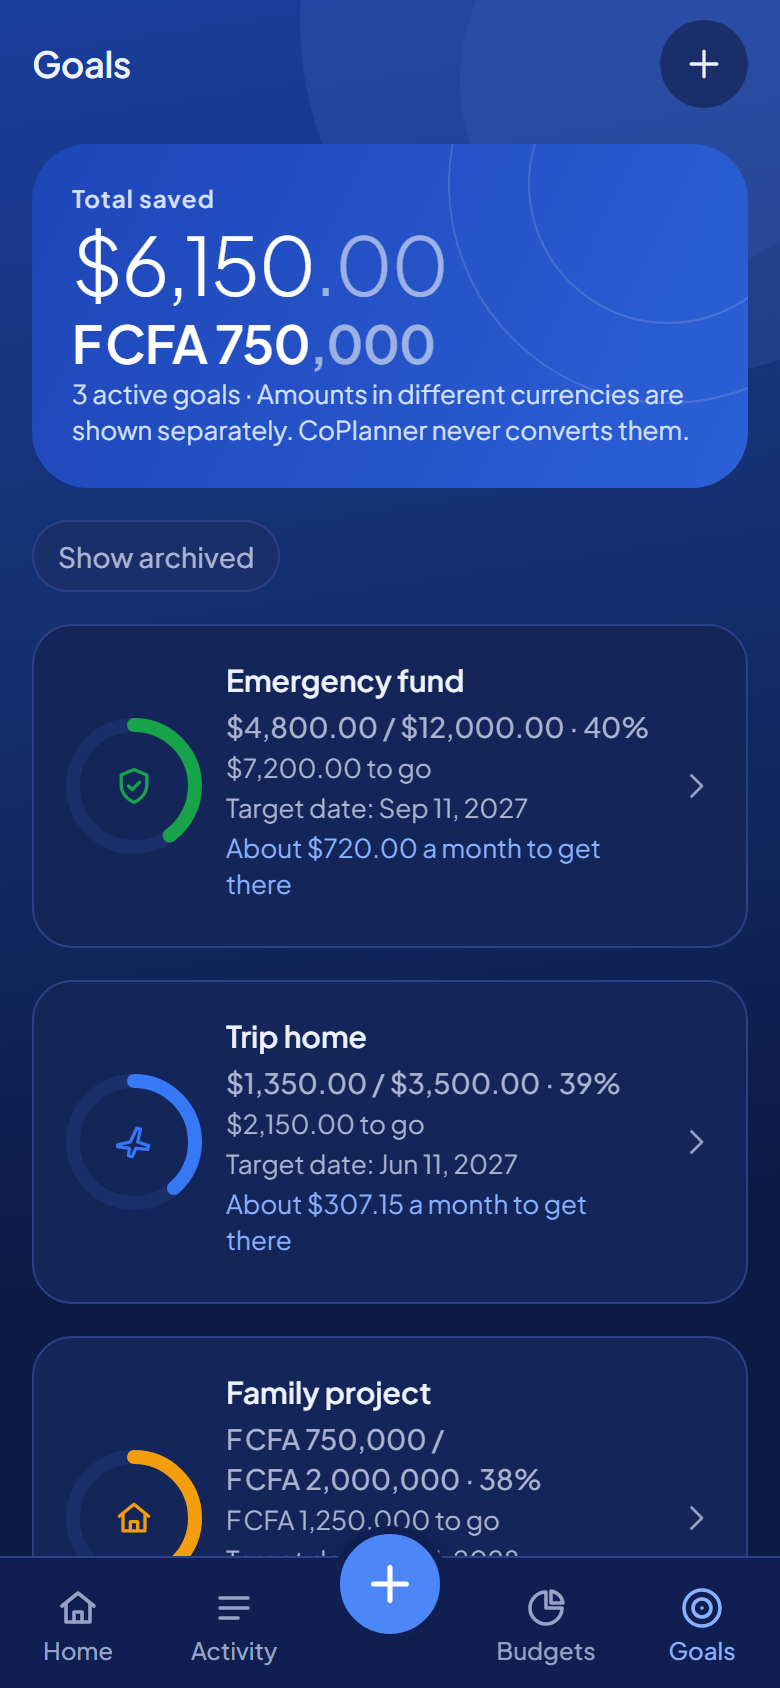
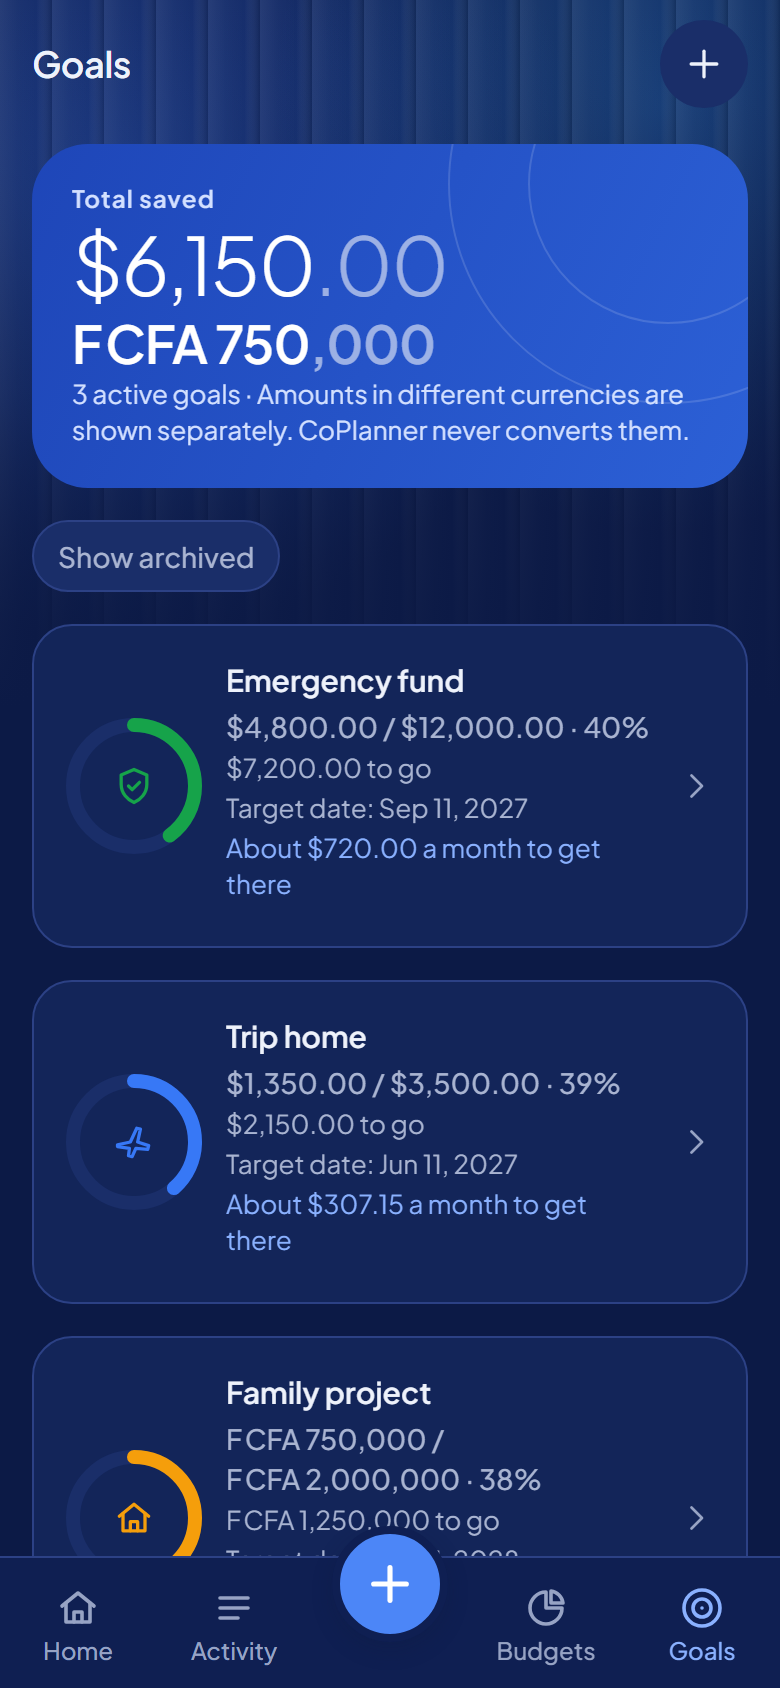
Glass header background on every screen
Calm version of the splash's fluted glass behind the header band, fading into
the plain background before content; glow strengths capped so secondary text
and links stay AA (tested); earlier sky gradient kept behind a one-line switch.

Changed region(s): [[0.0, 0.0, 1.0, 0.5545]]

diff --git a/src/ui/SkyBackground.tsx b/src/ui/SkyBackground.tsx
@@ -1,16 +1,85 @@
 import { LinearGradient } from 'expo-linear-gradient';
-import { StyleSheet, View } from 'react-native';
+import { StyleSheet, useWindowDimensions, View } from 'react-native';
+import Svg, { Defs, LinearGradient as SvgLinear, RadialGradient, Rect, Stop } from 'react-native-svg';
 
+import { decorativeProps } from './platform';
 import { useTheme } from './theme/ThemeProvider';
 
 /**
- * Blue-sky backdrop behind every screen: sky blue at the top fading into the app background (light), night blue
- * into deep navy (dark), with a soft sun-glow at the upper right. Fixed behind scrolling content.
+ * Which backdrop every screen uses. 'glass' (2026-11-11, Steeven): a calm version of the splash's fluted glass in the
+ * header band. 'sky': the earlier sky gradient, kept so switching back is one line.
  */
-export function SkyBackground() {
+const BACKDROP: 'glass' | 'sky' = 'glass';
+
+/**
+ * Glow colours and peak strength per theme. Peaks are the strongest that keep textSecondary and accentText at
+ * WCAG AA where a glow is densest (src/ui/theme/__tests__/contrast.test.ts checks these numbers).
+ */
+export const GLASS = {
+  light: { blue: '#2F6BEA', blueAlpha: 0.12, cyan: '#5CC8F0', cyanAlpha: 0.26 },
+  dark: { blue: '#3A72EC', blueAlpha: 0.42, cyan: '#2F7FD0', cyanAlpha: 0.4 },
+} as const;
+
+/** Height of the glass band behind the header and first card, as a share of the screen (capped in px). */
+const BAND_RATIO = 0.42;
+const BAND_MAX = 420;
+
+/**
+ * Glass header: blue (left) and cyan (right) glows seen through vertical glass ribs, at about a third of the splash
+ * strength so headings and secondary text stay AA, fading into the plain background before lists and charts start.
+ * Gradient ids are prefixed so they never collide with the splash's on web.
+ */
+function GlassHeader() {
+  const { colors, scheme } = useTheme();
+  const { width } = useWindowDimensions();
+  const dark = scheme === 'dark';
+  const band = Math.min(Math.round(useWindowDimensions().height * BAND_RATIO), BAND_MAX);
+  const ribWidth = 26;
+  const ribs = Math.ceil(width / ribWidth) + 1;
+  const { blue, blueAlpha, cyan, cyanAlpha } = GLASS[dark ? 'dark' : 'light'];
+
+  return (
+    <View pointerEvents="none" style={[styles.band, { height: band }]}>
+      <Svg width={width} height={band} {...decorativeProps}>
+        <Defs>
+          <RadialGradient id="appGlassBlue" cx="50%" cy="50%" r="50%">
+            <Stop offset="0" stopColor={blue} stopOpacity={blueAlpha} />
+            <Stop offset="0.55" stopColor={blue} stopOpacity={blueAlpha * 0.5} />
+            <Stop offset="1" stopColor={blue} stopOpacity={0} />
+          </RadialGradient>
+          <RadialGradient id="appGlassCyan" cx="50%" cy="50%" r="50%">
+            <Stop offset="0" stopColor={cyan} stopOpacity={cyanAlpha} />
+            <Stop offset="0.55" stopColor={cyan} stopOpacity={cyanAlpha * 0.5} />
+            <Stop offset="1" stopColor={cyan} stopOpacity={0} />
+          </RadialGradient>
+          <SvgLinear id="appGlassRib" x1="0" y1="0" x2="1" y2="0">
+            <Stop offset="0" stopColor="#FFFFFF" stopOpacity={dark ? 0.07 : 0.95} />
+            <Stop offset="0.35" stopColor="#FFFFFF" stopOpacity={dark ? 0.02 : 0.35} />
+            <Stop offset="0.7" stopColor="#FFFFFF" stopOpacity={0} />
+            <Stop offset="1" stopColor={dark ? '#000000' : '#0B1A4A'} stopOpacity={dark ? 0.16 : 0.06} />
+          </SvgLinear>
+          {/* Ends exactly on the screen background, so the band has no visible edge. */}
+          <SvgLinear id="appGlassFade" x1="0" y1="0" x2="0" y2="1">
+            <Stop offset="0" stopColor={colors.bg} stopOpacity={0} />
+            <Stop offset="0.55" stopColor={colors.bg} stopOpacity={0.35} />
+            <Stop offset="1" stopColor={colors.bg} stopOpacity={1} />
+          </SvgLinear>
+        </Defs>
+        <Rect x={-width * 0.45} y={-band * 0.35} width={width * 1.2} height={band * 1.25} fill="url(#appGlassBlue)" />
+        <Rect x={width * 0.35} y={-band * 0.45} width={width * 1.0} height={band * 1.2} fill="url(#appGlassCyan)" />
+        {Array.from({ length: ribs }, (_, i) => (
+          <Rect key={i} x={i * ribWidth} y={0} width={ribWidth} height={band} fill="url(#appGlassRib)" />
+        ))}
+        <Rect x={0} y={0} width={width} height={band} fill="url(#appGlassFade)" />
+      </Svg>
+    </View>
+  );
+}
+
+function Sky() {
   const { colors, scheme } = useTheme();
   return (
-    <View pointerEvents="none" style={StyleSheet.absoluteFill}>
+    <>
       <LinearGradient
         colors={[colors.skyTop, colors.skyMid, colors.bg]}
         locations={[0, 0.38, 0.78]}
@@ -24,17 +93,21 @@ export function SkyBackground() {
           { backgroundColor: scheme === 'dark' ? 'rgba(127,169,255,0.10)' : 'rgba(255,255,255,0.45)' },
         ]}
       />
-      <View
-        style={[
-          styles.glowSmall,
-          { backgroundColor: scheme === 'dark' ? 'rgba(127,169,255,0.08)' : 'rgba(255,255,255,0.35)' },
-        ]}
-      />
+    </>
+  );
+}
+
+/** Backdrop behind every screen (see BACKDROP). Fixed behind scrolling content. */
+export function SkyBackground() {
+  const { colors } = useTheme();
+  return (
+    <View pointerEvents="none" style={[StyleSheet.absoluteFill, { backgroundColor: colors.bg }]}>
+      {BACKDROP === 'glass' ? <GlassHeader /> : <Sky />}
     </View>
   );
 }
 
 const styles = StyleSheet.create({
+  band: { position: 'absolute', top: 0, left: 0, right: 0 },
   glow: { position: 'absolute', width: 360, height: 360, borderRadius: 180, top: -170, right: -120 },
-  glowSmall: { position: 'absolute', width: 200, height: 200, borderRadius: 100, top: -60, right: -40 },
 });

diff --git a/src/ui/theme/__tests__/contrast.test.ts b/src/ui/theme/__tests__/contrast.test.ts
@@ -1,3 +1,4 @@
+import { GLASS } from '../../SkyBackground';
 import { contrast } from '../contrast';
 import { darkPalette, lightPalette, type Palette } from '../tokens';
 
@@ -37,5 +38,30 @@ describe.each([
   it('positive and danger read as text on surface (3:1 for bold amounts)', () => {
     expect(contrast(p.positive, p.surface)).toBeGreaterThanOrEqual(3);
     expect(contrast(p.danger, p.surface)).toBeGreaterThanOrEqual(3);
+  });
+});
+
+/** Colour of a glow at its densest point over the screen background. */
+function over(fg: string, bg: string, alpha: number): string {
+  const ch = (h: string, i: number) => parseInt(h.slice(i, i + 2), 16);
+  return `#${[1, 3, 5]
+    .map((i) =>
+      Math.round(ch(fg, i) * alpha + ch(bg, i) * (1 - alpha))
+        .toString(16)
+        .padStart(2, '0'),
+    )
+    .join('')}`;
+}
+
+describe.each([
+  ['light', lightPalette, GLASS.light],
+  ['dark', darkPalette, GLASS.dark],
+] as const)('%s glass header', (_, p, g) => {
+  it('keeps text, secondary text and links AA at the glow peaks', () => {
+    for (const bg of [over(g.blue, p.bg, g.blueAlpha), over(g.cyan, p.bg, g.cyanAlpha)]) {
+      for (const k of ['text', 'textSecondary', 'accentText'] as const) {
+        expect(contrast(p[k], bg)).toBeGreaterThanOrEqual(4.5);
+      }
+    }
   });
 });
